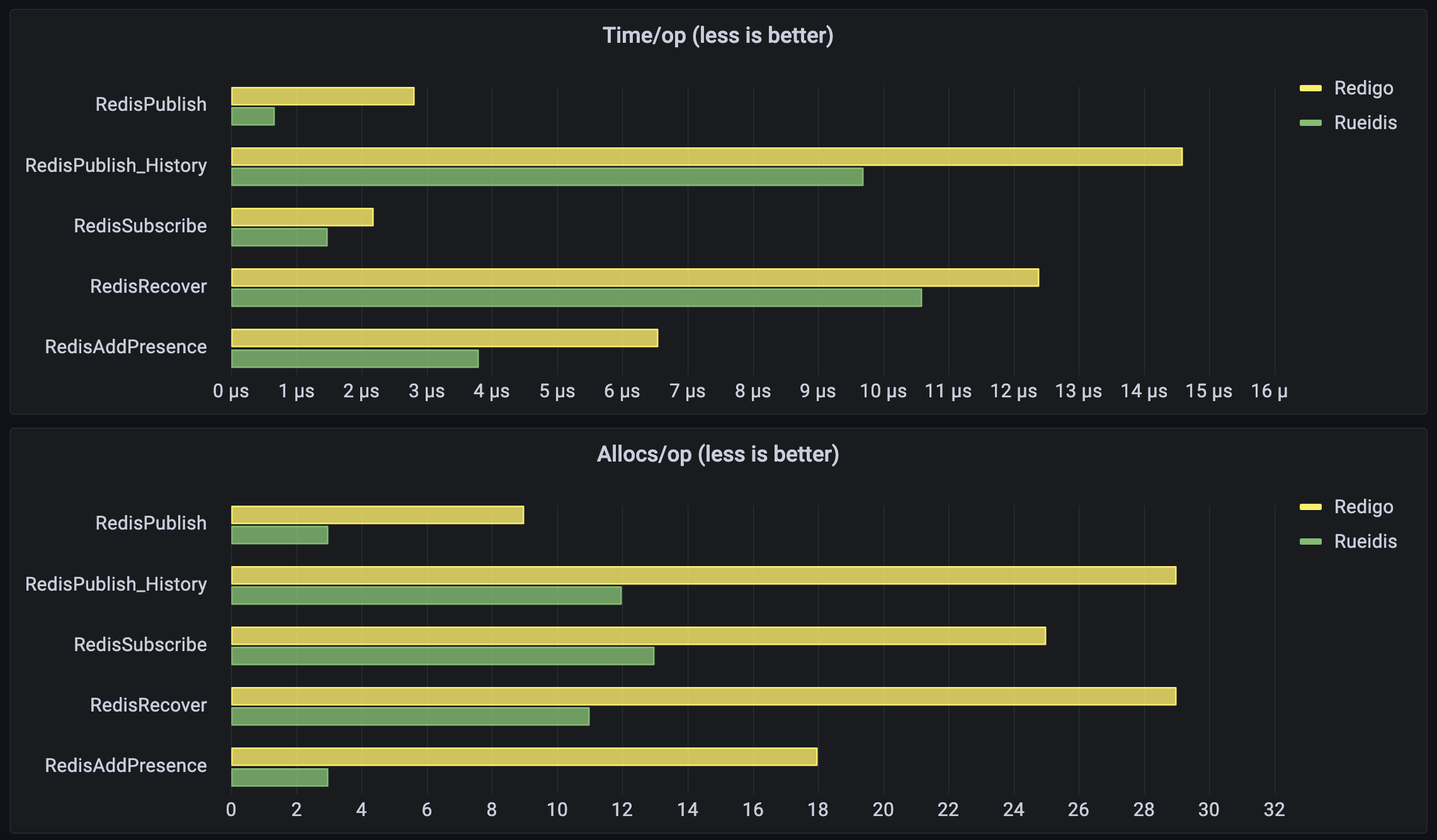
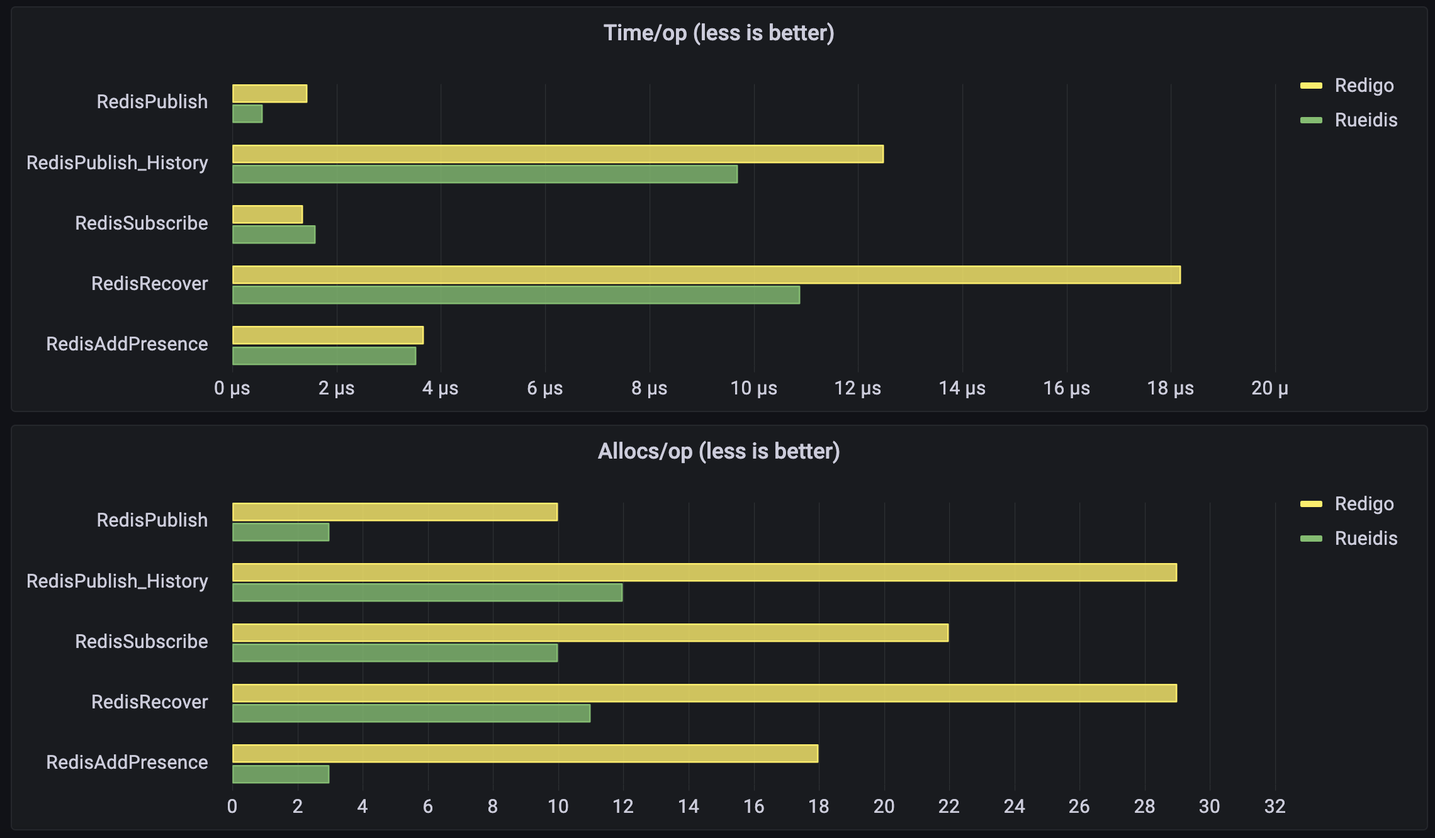
post updates

diff --git a/blog/2022-11-08-improving-redis-broker.md b/blog/2022-11-08-improving-redis-broker.md
@@ -16,7 +16,7 @@ The main goal of Centrifugo is to handle persistent client connections establish
 
 To achieve a possibility to scale client connections between many server nodes and not worry about channel subscribers belonging to different nodes Centrifugo uses **[Redis](https://redis.com/) as the main scalability option**. Redis is incredibly mature, simple and fast in-memory storage. Due to various built-in data structures and PUB/SUB support Redis is a perfect fit to be both Centrifugo `Broker` and `PresenceManager`.
 
-In Centrifugo v4.1.0 we introduced an updated implementation of our Redis Engine (`Engine` in Centrifugo == `Broker` + `PresenceManager`) which provides great performance improvements to our users. In this post we are discussing some things which pushed us towards rewriting Redis Engine and giving some insights about numbers we were able to achieve.
+In Centrifugo v4.1.0 we introduced an updated implementation of our Redis Engine (`Engine` in Centrifugo == `Broker` + `PresenceManager`) which provides great performance improvements to our users. In this post we are discussing some things which pushed us towards updating Redis Engine implementation and giving some insights about numbers we were able to achieve.
 
 <!--truncate-->
 
@@ -28,6 +28,8 @@ Let's provide some glue what is `Broker` and `PresenceManager` in Centrifugo.
 
 Another important part of `Broker` is keeping an expiring publication history streams for channels – so that Centrifugo may provide a fast cache for messages missed by clients upon going offline for short and compensate at most once delivery of Redis PUB/SUB using publication incremental offsets. Centrifugo uses STREAM and HASH data structures in Redis to keep channel history and its meta information.
 
+Overall Centrifugo architecture may be represented with this awesome picture (Gophers are Centrifugo nodes all connected to `Broker`):
+
 ![gopher-broker](https://i.imgur.com/QOJ1M9a.png)
 
 `PresenceManager` is responsible for online presence information - i.e. list of currently active channel subscribers. This data should also expire if not updated by a client connection for some time. Centrifugo uses two Redis data structures for managing presence in channels - HASH and ZSET.
@@ -38,14 +40,17 @@ The implementation of Redis Engine was based on [gomodule/redigo](https://github
 
 Redigo library provides a connection [Pool](https://pkg.go.dev/github.com/gomodule/redigo/redis#Pool) to Redis. A simple usage of it is to get the connection from the pool, issuing request to Redis using that connection, and putting the connection to the pool after receiving the result from Redis.
 
-There were several techniques we used to achieve a better throughput for Centrifugo Redis engine:
+To achieve a bigger throughput, instead of using `redigo`'s Pool for each operation we acquired a dedicated connection from the Pool and used Redis pipelining to send multiple commands where possible.
 
-1. Instead of using `redigo` Pool for each operation we acquired a dedicated connection from the Pool and used Redis pipelining to send commands where possible. Redis pipelining improves performance by executing multiple commands using a single client-server-client round trip. Instead of executing 100 commands one by one, you can queue the commands in a pipeline and then execute the queued commands as if it is a single command. Also, given a single CPU nature of Redis, reducing number of active connections when using pipelining has a good effect on throughput – so pipelining helps in this perspective also. We are using smart batching technique for collecting pipeline (described in [one of the previous posts](/blog/2020/11/12/scaling-websocket) in this blog). See also some benchmarks which demonstrate the benefit from pipelining and redigo in https://github.com/FZambia/redigo-smart-batching repo.
-2. We have a dedicated goroutine responsible for subscribing to channels. This goroutine also used a dedicated connection to Redis to send SUBSCRIBE/UNSUBSCRIBE Redis commands, batching commands to pipeline objects.
+Redis pipelining improves performance by executing multiple commands using a single client-server-client round trip. Instead of executing 100 commands one by one, you can queue the commands in a pipeline and then execute the queued commands as if it is a single command. Also, given a single CPU nature of Redis, reducing number of active connections when using pipelining has a good effect on throughput – so pipelining helps in this perspective also.
+
+We are using smart batching technique for collecting pipeline (described in [one of the previous posts](/blog/2020/11/12/scaling-websocket) in this blog). See also some benchmarks which demonstrate the benefit from pipelining and redigo in https://github.com/FZambia/redigo-smart-batching repo.
+
+We also had a dedicated goroutine responsible for subscribing to channels. This goroutine also used a dedicated connection to Redis to send SUBSCRIBE/UNSUBSCRIBE Redis commands, batching commands to pipeline objects.
 
 Redigo is a nice stable library which served us great for a long time.
 
-## Limitations of Redigo
+## Motivation to migrate
 
 There are three modes in which Centrifugo can work with Redis these days:
 
@@ -55,7 +60,7 @@ There are three modes in which Centrifugo can work with Redis these days:
 
 All modes additionally can be run with client-side consistent sharding.
 
-Unfortunately, with pure Redigo library, it's only possible to implement [1] – i.e. connecting to a single standalone Redis instance.
+Unfortunately, with pure Redigo library, it's only possible to implement [ 1 ] – i.e. connecting to a single standalone Redis instance.
 
 To support scheme with Sentinel you whether need to have a proxy between application and Redis which proxies connection to Redis master. For example, with Haproxy it's possible in this way:
 
@@ -81,7 +86,7 @@ Or, you need to additionally import [FZambia/sentinel](https://github.com/FZambi
 
 For communicating with Redis Cluster one more library may be used – [mna/redisc](https://github.com/mna/redisc) which is also a layer on top of `redigo` basic functionality.
 
-Combining `redigo` + `FZambia/sentinel` + `mna/redisc` it was possible to implement all three connection modes. This worked, though resulted in rather tricky Redis setup. Also, it was hard to re-use existing pipelining code we had for a standalone Redis with Redis Cluster. So Centrifugo only used pipelining in standalone or Sentinel Redis cases, but when using Redis Cluster Centrifugo simply used connection pool to issue requests. Thus we had some code duplication to issue the same requests in various Redis configurations.
+Combining `redigo` + `FZambia/sentinel` + `mna/redisc` we were able to implement all three connection modes. This worked, though resulted in rather tricky Redis setup. Also, it was hard to re-use existing pipelining code we had for a standalone Redis with Redis Cluster. So Centrifugo only used pipelining in a standalone or Sentinel Redis cases, but when using Redis Cluster Centrifugo simply used connection pool to issue requests not benefiting from request pipelining. Due to this we had some code duplication to issue the same requests in various Redis configurations.
 
 Another thing is that Redigo is fully interface-based. It has `Do` method which accepts name of command and variadic `interface{}` arguments to construct command arguments:
 
@@ -98,18 +103,18 @@ To summarize what we wanted from Redis library:
 * Possibility to work with all three Redis setup options we support: standalone, master-replica(s) with Sentinel, Redis Cluster, so we can depend on one library instead of three
 * Less memory allocations, so our users could notice a sufficient CPU reduction on Centrifugo nodes which communicate with Redis a lot
 * More type-safety when constructing Redis commands
-* Work with RESP2-only Redis servers as we need that for backwards compatibility, and some vendors like Redis Enterprise still using only RESP2 protocol
-* Well-maintained
+* Work with RESP2-only Redis servers as we need that for backwards compatibility. And some vendors like Redis Enterprise still support RESP2 protocol only
+* The library should be actively maintained
 
 ## Go-redis
 
-Actually, the most obvious alternative to `redigo` is [go-redis/redis](https://github.com/go-redis/redis) package. It's very popular, regularly gets updates, used by a huge amount of Go projects (Grafana, Thanos, etc.). I personally successfully used it in several other projects I worked on.
+Actually, the most obvious alternative to `redigo` is [go-redis/redis](https://github.com/go-redis/redis) package. It's popular, regularly gets updates, used by a huge amount of Go projects (Grafana, Thanos, etc.). I personally successfully used it in several other projects I worked on.
 
 To avoid setup boilerplate for various Redis setup variations `go-redis/redis` has [UniversalClient](https://pkg.go.dev/github.com/go-redis/redis/v9#UniversalClient), from docs:
 
 > UniversalClient is a wrapper client which, based on the provided options, represents either a ClusterClient, a FailoverClient, or a single-node Client. This can be useful for testing cluster-specific applications locally or having different clients in different environments.
 
-In terms of internal implementation `go-redis/redis` also has internal pool of connections, similar to `redigo`.It's also possible to get a dedicated connection from the internal pool and use it for pipelining purposes. So `UniversalClient` reduces boilerplate and dependencies we had and still provides similar approach for the connection management so we could easily re-implement things we had.
+In terms of implementation `go-redis/redis` also has internal pool of connections to Redis, similar to `redigo`. It's also possible to get a dedicated connection from the internal pool and use it for pipelining. So `UniversalClient` reduces setup boilerplate for different Redis installation types and number of dependencies we had – and still provides similar approach for the connection management so we could easily re-implement things we had.
 
 At some point [@j178](https://github.com/j178) sent [a pull request](https://github.com/centrifugal/centrifuge/pull/235) to Centrifuge library ([the core of Centrifugo](/docs/ecosystem/centrifuge)) with `Broker` and `PresenceManager` implementations based on `go-redis/redis`. The amount of code to cover all the various Redis setups reduced, we got only one dependency instead of three.
 
@@ -117,33 +122,34 @@ But what about performance? Here we will show results for several operations whi
 
 1. Publish message to a channel without saving it to the history - this is just a Redis PUBLISH command going through Redis PUB/SUB system (`RedisPublish`)
 2. Publish message to a channel with saving it to history - this involves executing LUA script on Redis side where we add publication to STREAM data structure, update meta information HASH and finally PUBLISH to PUB/SUB (`RedisPublish_History`)
-3. Subscribe to a channel - that's a SUBSRIBE Redis command, this is important to have it fast as Centrifugo should be able to re-subscribe to all the channels in the system upon [mass client reconnect scenario](/blog/2020/11/12/scaling-websocket#massive-reconnect) (`RedisSubscribe`)
-4. Recovering missed publication state from channel STREAM, this is again may be called lots of times when all clients reconnect at once (`RedisRecover`)
-5. Updating connection presence information - many connections may periodically update their channel presence information in Redis (`RedisAddPresence`)
+3. Subscribe to a channel - that's a SUBSCRIBE Redis command, this is important to have it fast as Centrifugo should be able to re-subscribe to all the channels in the system upon [mass client reconnect scenario](/blog/2020/11/12/scaling-websocket#massive-reconnect) (`RedisSubscribe`)
+4. Recovering missed publication state from channel STREAM, this is again may be called lots of times when all clients reconnect at once (`RedisRecover`).
+5. Updating connection presence information - many connections may periodically update their channel online presence information in Redis (`RedisAddPresence`)
 
-Here are the benchmark results we got when comparing `redigo` (v1.8.9) implementation (old) and `go-redis/redis` (v9.0.0-beta.3) implementation (new):
+Here are the benchmark results we got when comparing `redigo` (v1.8.9) implementation (old) and `go-redis/redis` (v9.0.0-beta.3) implementation (new) with Redis v6.2.7:
 
 ```
-name                          old time/op    new time/op    delta
-RedisPublish-8                 2.82µs ± 2%    2.99µs ± 4%   +5.95%  (p=0.000 n=10+10)
-RedisPublish_History-8         14.6µs ± 0%    11.3µs ± 1%  -22.83%  (p=0.000 n=9+10)
-RedisSubscribe-8               2.19µs ±10%    2.16µs ± 6%     ~     (p=0.315 n=9+10)
-RedisRecover-8                 12.4µs ± 1%    13.0µs ± 8%   +5.49%  (p=0.014 n=10+10)
-RedisAddPresence-8             6.56µs ± 1%    5.13µs ± 0%  -21.82%  (p=0.000 n=10+10)
+❯ benchstat redigo.txt goredis.txt
+name                      old time/op    new time/op    delta
+RedisPublish-8            1.45µs ± 6%    1.78µs ± 2%  +22.30%  (p=0.000 n=9+9)
+RedisPublish_History-8    12.5µs ± 7%     9.7µs ± 3%  -22.40%  (p=0.000 n=10+10)
+RedisSubscribe-8          1.36µs ±26%    1.38µs ± 3%     ~     (p=0.195 n=10+8)
+RedisRecover-8            18.2µs ± 3%    14.5µs ± 2%  -20.11%  (p=0.000 n=10+10)
+RedisAddPresence-8        3.68µs ± 1%    3.37µs ± 3%   -8.36%  (p=0.000 n=10+10)
 
-name                          old alloc/op   new alloc/op   delta
-RedisPublish-8                   484B ± 0%      501B ± 0%   +3.43%  (p=0.000 n=10+10)
-RedisPublish_History-8         1.30kB ± 0%    1.08kB ± 0%  -16.71%  (p=0.000 n=10+10)
-RedisSubscribe-8               1.26kB ± 0%    1.08kB ± 2%  -14.57%  (p=0.000 n=10+10)
-RedisRecover-8                 1.24kB ± 0%    1.02kB ± 0%  -18.01%  (p=0.000 n=8+8)
-RedisAddPresence-8               910B ± 0%      829B ± 0%   -8.90%  (p=0.000 n=8+7)
+name                     old alloc/op   new alloc/op   delta
+RedisPublish-8              483B ± 0%      499B ± 0%   +3.31%  (p=0.000 n=10+8)
+RedisPublish_History-8    1.30kB ± 0%    1.08kB ± 0%  -16.69%  (p=0.000 n=8+8)
+RedisSubscribe-8            893B ± 1%      665B ± 4%  -25.58%  (p=0.000 n=9+10)
+RedisRecover-8            1.25kB ± 0%    1.02kB ± 0%  -18.29%  (p=0.000 n=10+10)
+RedisAddPresence-8          907B ± 0%      827B ± 0%   -8.78%  (p=0.000 n=10+8)
 
-name                          old allocs/op  new allocs/op  delta
-RedisPublish-8                   9.00 ± 0%      8.00 ± 0%  -11.11%  (p=0.000 n=10+10)
-RedisPublish_History-8           29.0 ± 0%      25.0 ± 0%  -13.79%  (p=0.000 n=10+10)
-RedisSubscribe-8                 25.0 ± 0%      18.5 ± 3%  -26.00%  (p=0.000 n=10+10)
-RedisRecover-8                   29.0 ± 0%      24.0 ± 0%  -17.24%  (p=0.000 n=10+10)
-RedisAddPresence-8               18.0 ± 0%      17.0 ± 0%   -5.56%  (p=0.000 n=10+10)
+name                    old allocs/op  new allocs/op  delta
+RedisPublish-8              10.0 ± 0%       9.0 ± 0%  -10.00%  (p=0.000 n=10+10)
+RedisPublish_History-8      29.0 ± 0%      25.0 ± 0%  -13.79%  (p=0.000 n=10+10)
+RedisSubscribe-8            22.0 ± 0%      13.3 ± 5%  -39.55%  (p=0.000 n=8+10)
+RedisRecover-8              29.0 ± 0%      24.0 ± 0%  -17.24%  (p=0.000 n=10+10)
+RedisAddPresence-8          18.0 ± 0%      17.0 ± 0%   -5.56%  (p=0.000 n=10+10)
 ```
 
 Or visualized in Grafana:
@@ -152,17 +158,25 @@ Or visualized in Grafana:
 
 :::danger
 
-Please note that these numbers is not a pure performance comparison of two Go libraries for Redis – it's a performance comparison of our Engine methods upon switching to a new library.
+Please note that this benchmark is not a pure performance comparison of two Go libraries for Redis – it's a performance comparison of Centrifugo Engine methods upon switching to a new library.
 
 :::
 
 While the observed performance improvements here are not really mind-blowing – we see a noticeable reduction in allocations in these benchmarks and in some other benchmarks not presented here we observed a 2 times reduced latency.
 
-This all convinced us that the migration from `redigo` to `go-redis/redis` may provide Centrifugo with everything we aimed for – all the goals for a `redigo` alternative outlined above were successfully fullfilled.
+Go-redis also provides more type-safety when constructing commands compared to Redigo, almost every command in Redis is implemented as a separate method of `Client`, for example `Publish` [defined](https://pkg.go.dev/github.com/go-redis/redis/v9#Client.Publish) as:
+
+```go
+func (c Client) Publish(ctx context.Context, channel string, message interface{}) *IntCmd
+```
+
+You can see though that we still have `interface{}` here for `message` argument type. I suppose this was implemented in such way for convenience – to pass both `string` or `[]byte`. So it still produces some extra allocations.
+
+Overall, results convinced us that the migration from `redigo` to `go-redis/redis` may provide Centrifugo with everything we aimed for – all the goals for a `redigo` alternative outlined above were successfully fullfilled.
 
 One good thing `go-redis/redis` allowed us to do is to use Redis pipelining also in a Redis Cluster case. It's possible due to the fact that `go-redis/redis` [re-maps pipeline objects internally](https://github.com/go-redis/redis/blob/c561f3ca7e5cf44ce1f1d3ef30f4a10a9c674c8a/cluster.go#L1062) based on keys to execute pipeline on the correct node of Redis Cluster. Actually, we could do the same based on `redigo` + `mna/redisc`, but here we got it for free.
 
-Though we have not chosen `go-redis/redis` in the end. And the reason is another library – `rueidis`.
+Though we have not migrated to `go-redis/redis` in the end. And the reason is another library – `rueidis`.
 
 ## Rueidis
 
@@ -176,48 +190,53 @@ The readme of `rueidis` contains benchmark results where it hugely outperforms `
 
 ![](/img/rueidis_2.png)
 
-`rueidis` lib comes with **automatic pipelining**, so you can send each request in isolated way while `rueidis` makes sure it becomes part of pipeline sent to Redis – thus utilizing the connection between application and Redis in a most efficient way with maximumized throughput.
+`rueidis` library comes with **automatic pipelining**, so you can send each request in isolated way while `rueidis` makes sure it becomes part of pipeline sent to Redis – thus utilizing the connection between an application and Redis in the most efficient way with maximized throughput.
 
-This is a relatively new library, I was following it right from the first announcements. And did some prototypes with `rueidis` and Centrifugo which were super-promising in terms of performance. There were some issues found during that early prototyping (mostly with PUB/SUB) – but all of them were successfuly resolved by author of `rueidis`. Until `v0.0.80` release `rueidis` did not support RESP2 though, so we could not replace our Redis Engine implementation with it. But as soon as it got RESP2 support we opened [a pull request with alternative implementation](https://github.com/centrifugal/centrifuge/pull/262).
+For Centrifugo we didn't expect such a huge speed-up as shown on the graphs above since we already used pipelining in Redis Engine as I mentioned above.
+
+`rueidis` is a relatively new library. I was following it right from the first announcements and did some prototypes together with Centrifugo which were super-promising in terms of performance. There were some issues found during that early prototyping (mostly with PUB/SUB) – but all of them were quickly resolved by author of `rueidis`.
+
+Until `v0.0.80` release `rueidis` did not support RESP2 though, so we could not replace our Redis Engine implementation with it. But as soon as it got RESP2 support we opened [a pull request with alternative implementation](https://github.com/centrifugal/centrifuge/pull/262).
 
 `rueidis` works with standalone Redis, Sentinel Redis and Redis Cluster out of the box. Just like `UniversalClient` of `go-redis/redis`. So it also allowed us to reduce code boilerplate to work with all these setups.
 
-Regarding performance, here are the benchmark results we got when comparing `redigo` (v1.8.9) implementation (old) and `rueidis` (v0.0.82) implementation (new):
+Regarding performance, here are the benchmark results we got when comparing `redigo` (v1.8.9) implementation (old) and `rueidis` (v0.0.83) implementation (new):
 
 ```
-name                          old time/op    new time/op    delta
-RedisPublish-8                2.82µs ± 2%    0.68µs ± 3%  -75.99%  (p=0.000 n=10+9)
-RedisPublish_History-8        14.6µs ± 0%     9.7µs ± 1%  -33.51%  (p=0.000 n=9+10)
-RedisSubscribe-8              2.19µs ±10%    1.49µs ± 8%  -31.93%  (p=0.000 n=9+10)
-RedisRecover-8                12.4µs ± 1%    10.6µs ± 0%  -14.45%  (p=0.000 n=10+8)
-RedisAddPresence-8            6.56µs ± 1%    3.80µs ± 1%  -42.02%  (p=0.000 n=10+10)
+❯ benchstat redigo.txt rueidis.txt
+name                      old time/op    new time/op    delta
+RedisPublish-8            1.45µs ± 6%    0.59µs ± 3%  -59.67%  (p=0.000 n=9+8)
+RedisPublish_History-8    12.5µs ± 7%     9.7µs ± 0%  -22.28%  (p=0.000 n=10+10)
+RedisSubscribe-8          1.36µs ±26%    1.60µs ± 8%  +17.90%  (p=0.007 n=10+10)
+RedisRecover-8            18.2µs ± 3%    10.9µs ± 1%  -40.01%  (p=0.000 n=10+10)
+RedisAddPresence-8        3.68µs ± 1%    3.54µs ± 0%   -3.86%  (p=0.000 n=10+9)
 
-name                          old alloc/op   new alloc/op   delta
-RedisPublish-8                  484B ± 0%      171B ± 0%  -64.67%  (p=0.000 n=10+9)
-RedisPublish_History-8        1.30kB ± 0%    0.55kB ± 1%  -57.55%  (p=0.000 n=10+10)
-RedisSubscribe-8              1.26kB ± 0%    1.22kB ± 0%   -3.13%  (p=0.000 n=10+8)
-RedisRecover-8                1.24kB ± 0%    0.59kB ± 1%  -52.78%  (p=0.000 n=8+10)
-RedisAddPresence-8              910B ± 0%      149B ± 3%  -83.60%  (p=0.000 n=8+10)
+name                     old alloc/op   new alloc/op   delta
+RedisPublish-8              483B ± 0%      171B ± 0%  -64.66%  (p=0.000 n=10+10)
+RedisPublish_History-8    1.30kB ± 0%    0.55kB ± 1%  -57.68%  (p=0.000 n=8+10)
+RedisSubscribe-8            893B ± 1%      841B ± 6%   -5.85%  (p=0.000 n=9+10)
+RedisRecover-8            1.25kB ± 0%    0.59kB ± 1%  -53.08%  (p=0.000 n=10+10)
+RedisAddPresence-8          907B ± 0%      149B ± 2%  -83.52%  (p=0.000 n=10+10)
 
-name                          old allocs/op  new allocs/op  delta
-RedisPublish-8                  9.00 ± 0%      3.00 ± 0%  -66.67%  (p=0.000 n=10+10)
-RedisPublish_History-8          29.0 ± 0%      12.0 ± 0%  -58.62%  (p=0.000 n=10+10)
-RedisSubscribe-8                25.0 ± 0%      13.0 ± 0%  -48.00%  (p=0.000 n=10+10)
-RedisRecover-8                  29.0 ± 0%      11.0 ± 0%  -62.07%  (p=0.000 n=10+10)
-RedisAddPresence-8              18.0 ± 0%       3.0 ± 0%  -83.33%  (p=0.000 n=10+10)
+name                    old allocs/op  new allocs/op  delta
+RedisPublish-8              10.0 ± 0%       3.0 ± 0%  -70.00%  (p=0.000 n=10+10)
+RedisPublish_History-8      29.0 ± 0%      12.0 ± 0%  -58.62%  (p=0.000 n=10+10)
+RedisSubscribe-8            22.0 ± 0%      10.0 ± 0%  -54.55%  (p=0.002 n=8+10)
+RedisRecover-8              29.0 ± 0%      11.0 ± 0%  -62.07%  (p=0.000 n=10+10)
+RedisAddPresence-8          18.0 ± 0%       3.0 ± 0%  -83.33%  (p=0.000 n=10+10)
 ```
 
 Or visualized in Grafana:
 
 ![](/img/redis_vis02.png)
 
-Yes, it's 4x times more publication throughput than we had before! Instead of 350k publications/sec we went towards 1.5 million publications/sec due to drastically decreased publish operation latency (2.82µs -> 0.68µs). The latency of other operations also reduced.
+Yes, it's almost 3x times more publication throughput than we had before! Instead of 700k publications/sec we went towards 1.7 million publications/sec due to drastically decreased publish operation latency (1.45µs -> 0.59µs). This means that our previous Engine implementations under-utilized Redis, and Rueidis just pushes us towards Redis limits. The latency of most other operations is also reduced (except for `Subscribe`).
 
-As you can see `rueidis`-based implementation produces sufficiently less allocations for all our Redis requests. Allocation improvements directly affect Centrifugo node CPU usage. So Centrifugo users with Redis Engine may expect CPU usage reduction upon switching to Centrifugo v4.1.0. Of course it's not a two times CPU reduction since Centrifugo node does many other things beyond Redis communication. But on our test stand we observed a 20% overall CPU drop. This number may vary depending on load profile and used Centrifugo features.
+The best win here is allocation efficiency of the `rueidis`-based implementation. As you can see `rueidis` helped us to generate sufficiently less allocations for all our Redis requests. Allocation improvements directly affect Centrifugo node CPU usage. So Centrifugo users with Redis Engine may expect CPU usage reduction upon switching to Centrifugo v4.1.0. Of course it's not a two times CPU reduction since Centrifugo node does many other things beyond Redis communication. But on our test stand we observed a 20% overall CPU drop. This number may vary depending on load profile and used Centrifugo features.
 
 For Redis Cluster case we also got benchmark results similar to standalone Redis results above.
 
-Why `rueidis` is that fast? Some insights are provided by its author in a "Writing a High-Performance Golang Client Library" series of posts on Medium:
+Why `rueidis` is that efficient? Some insights are provided by its author in a "Writing a High-Performance Golang Client Library" series of posts on Medium:
 
 * [Part 1: Batching on Pipeline](https://betterprogramming.pub/writing-high-performance-golang-client-library-part-1-batching-on-pipeline-97988fe3211)
 * [Part 2: Reading Again From Channels?](https://betterprogramming.pub/working-on-high-performance-golang-client-library-reading-again-from-channels-5e98ff3538cf)
@@ -225,18 +244,24 @@ Why `rueidis` is that fast? Some insights are provided by its author in a "Writi
 
 Since auto-pipelining is used in `rueidis` by default we also were able to remove some of our pipelining management code – so the Engine implementation is more concise now. One more thing to mention is a simpler PUB/SUB code we were able to write with `rueidis`. In `redigo` case we had to periodically PING PUB/SUB connection to maintain it alive, `rueidis` does this automatically.
 
-You may also find other features of `rueidis` useful – like OpenTelemetry integration, client-side caching support to avoid network round trips while accessing an application cache data, integration with popular Redis modules like RediSearch or RedisJSON, etc.
-
-## Other improvements
-
-There were some other improvements in our Redis Engine implementation not outlined here – for example, in new implementation we got a sifficiently larger publish and subscribe throughput upon increased latency between Centrifugo and Redis. Also, we supported [sharded PUB/SUB feature](https://redis.io/docs/manual/pubsub/#sharded-pubsub) available in Redis Cluster since Redis v7 – it allows better scaling of PUB/SUB inside Redis Cluster.
-
-## Conclusion
-
-Migrating from a stable to a relatively new library is a risky step. We spent some time testing various failure scenarios – and new Engine implementation behaved as expected.
-
-I believe that we will find more projects in Go ecosystem using `rueidis` library in the near future. Not just because its efficiency but also due to a nice type-safe API. I really enjoyed building commands with `rueidis` - all Redis commands may be constructed using a builder approach based on code generation. For example, this is a process of building a PUBLISH Redis command:
+ I really enjoyed building commands with `rueidis` - all Redis commands may be constructed using a builder approach based on code generation. For example, this is a process of building a PUBLISH Redis command:
 
 <video width="100%" loop="true" autoplay="autoplay" muted controls="" src="/img/rueidis_cmd.mp4"></video>
 
 This drastically reduces a chance to make a stupid mistake while constructing a command. Instead of always opening Redis docs to see a command syntax it's now possible to just start typing - and quickly come to the complete command to send.
+
+You may also find other features of `rueidis` useful – like OpenTelemetry integration, client-side caching support to avoid network round trips while accessing an application cache data, integration with popular Redis modules like RediSearch or RedisJSON, etc.
+
+## Redis 7 performance degradation
+
+One thing worth mentioning and which may be helpful for someone is that during our comparison experiments we discovered that Redis 7 has a major latency increase compared to Redis 6. This is definitely true for Lua scripts execution and currently investigated inside [this Redis issue](https://github.com/redis/redis/issues/10981).   
+
+## Conclusion
+
+Migrating from a stable to a relatively new library is a risky step. In this perspective `redigo` and `go-redis/redis` may be more mature options with bigger community behind. We spent some time testing various failure scenarios though – and new `rueidis`-based Engine implementation behaved as expected.
+
+I believe that we will find more projects in Go ecosystem using `rueidis` library in the near future. Not just because its allocation efficiency and out-of-the-box throughput but also due to a handy type-safe command API.
+
+For Centrifugo users this migration means more efficient CPU usage which should be noticable for setups with many publications, or with many history requests, or with many presence requests. 
+
+There were some other improvements in our Redis Engine implementation not outlined in this post – for example, in new implementation we got a sufficiently larger publish and subscribe throughput upon increased latency between Centrifugo and Redis. Also, we supported [sharded PUB/SUB feature](https://redis.io/docs/manual/pubsub/#sharded-pubsub) available in Redis Cluster since Redis v7 – it allows better scaling of PUB/SUB inside Redis Cluster.
